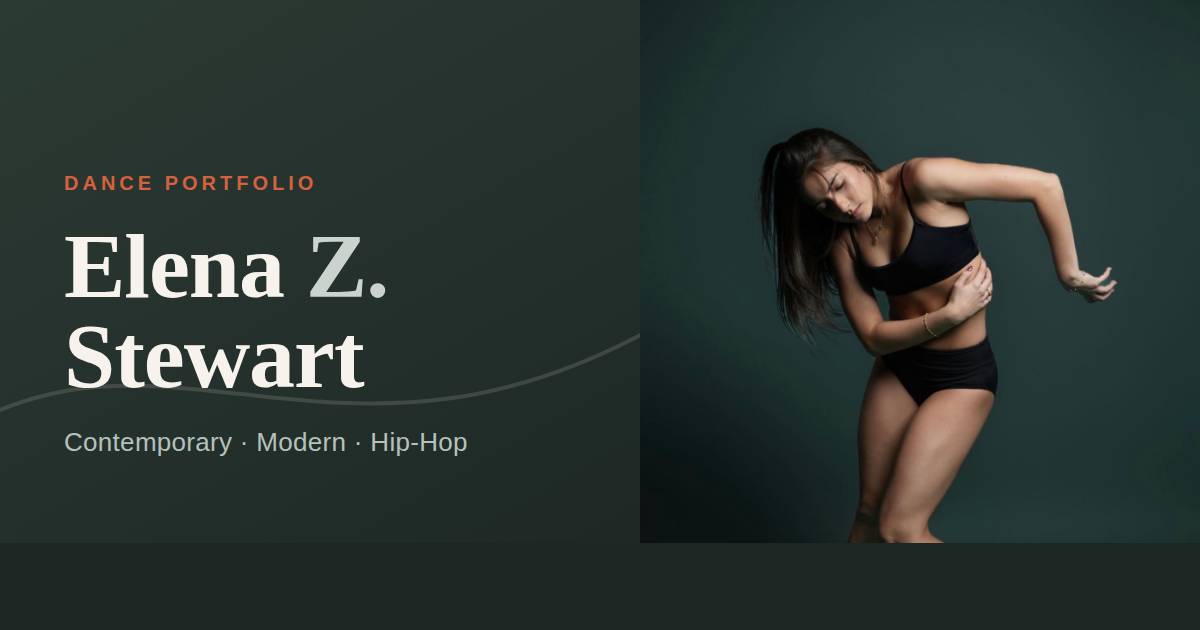
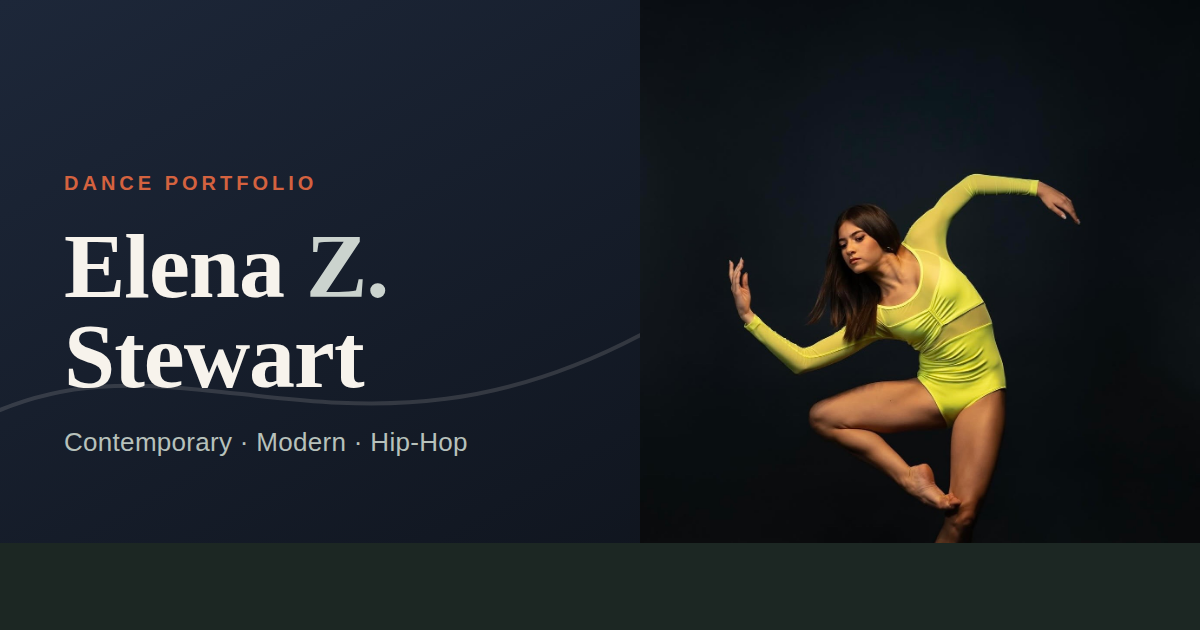
Swap hero to the neon/navy pose and build a real photo gallery
- hero: new lead image (neon on deep navy) — face clearly visible,
  dynamic line, and the dark ground gives the title crisp contrast;
  object-position tuned for the new framing
- gallery: replaced placeholders with 8 curated photos spanning her
  range (contemporary, competition stage, studio series), switched the
  layout to CSS-columns masonry so no pose gets cropped; lightbox shows
  each full frame
- og-image: regenerated share card to match the new navy hero
- removed hero/gallery placeholder SVGs

Verified in-browser: no horizontal overflow at 1440/390, lightbox opens,
masonry balances on desktop (3 col) and mobile (2 col).

Claude-Session: https://claude.ai/code/session_01631a2BMmb7Z8ksiHezA3fb

diff --git a/index.html b/index.html
@@ -72,7 +72,7 @@
 
     <!-- ============ HERO ============ -->
     <section class="hero">
-      <img class="hero-photo" src="assets/photos/hero.jpg" alt="Elena Z. Stewart in a contemporary dance pose" fetchpriority="high">
+      <img class="hero-photo" src="assets/photos/hero.jpg" alt="Elena Z. Stewart in a dynamic contemporary pose" fetchpriority="high">
       <div class="hero-scrim" aria-hidden="true"></div>
       <div class="hero-inner">
         <h1 class="hero-name">Elena&nbsp;Z.<br>Stewart</h1>
@@ -162,18 +162,17 @@
         <p class="kicker reveal">03 — Gallery</p>
         <h2 class="reveal">Stills.</h2>
       </div>
-      <!-- PLACEHOLDER: replace gallery-01…08.svg with ~8 curated photos of Elena alone
-           (mix of technique shots, stage shots, and personality). alt text below describes
-           the intended shot type for each slot. -->
+      <!-- To swap or add: drop a photo in assets/photos/ and update the src + alt below.
+           Masonry preserves each photo's full frame (no cropping). -->
       <div class="gallery-grid container-wide">
-        <button class="gallery-item reveal"><img src="assets/photos/gallery-01.svg" alt="Leap — technique shot" loading="lazy"></button>
-        <button class="gallery-item reveal"><img src="assets/photos/gallery-02.svg" alt="Stage performance" loading="lazy"></button>
-        <button class="gallery-item reveal"><img src="assets/photos/gallery-03.svg" alt="Extension — technique shot" loading="lazy"></button>
-        <button class="gallery-item reveal"><img src="assets/photos/gallery-04.svg" alt="Hip-hop freeze — studio shot" loading="lazy"></button>
-        <button class="gallery-item reveal"><img src="assets/photos/gallery-05.svg" alt="Rehearsal moment" loading="lazy"></button>
-        <button class="gallery-item reveal"><img src="assets/photos/gallery-06.svg" alt="Contemporary floorwork" loading="lazy"></button>
-        <button class="gallery-item reveal"><img src="assets/photos/gallery-07.svg" alt="Turn sequence — stage shot" loading="lazy"></button>
-        <button class="gallery-item reveal"><img src="assets/photos/gallery-08.svg" alt="Portrait in motion" loading="lazy"></button>
+        <button class="gallery-item reveal"><img src="assets/photos/gallery-01.jpg" width="1290" height="1555" alt="Standing split in a blue two-piece" loading="lazy"></button>
+        <button class="gallery-item reveal"><img src="assets/photos/gallery-02.jpg" width="1282" height="838" alt="Competition solo on stage — a needle extension" loading="lazy"></button>
+        <button class="gallery-item reveal"><img src="assets/photos/gallery-03.jpg" width="1290" height="1691" alt="Contemporary contraction on a green backdrop" loading="lazy"></button>
+        <button class="gallery-item reveal"><img src="assets/photos/gallery-04.jpg" width="1290" height="1571" alt="Extended-leg hold in neon on a navy backdrop" loading="lazy"></button>
+        <button class="gallery-item reveal"><img src="assets/photos/gallery-05.jpg" width="1290" height="837" alt="A held, face-up moment in black on stage" loading="lazy"></button>
+        <button class="gallery-item reveal"><img src="assets/photos/gallery-06.jpg" width="1290" height="1547" alt="Penché with hair in motion" loading="lazy"></button>
+        <button class="gallery-item reveal"><img src="assets/photos/gallery-07.jpg" width="1290" height="1720" alt="Inverted balance and control on a green backdrop" loading="lazy"></button>
+        <button class="gallery-item reveal"><img src="assets/photos/gallery-08.jpg" width="1290" height="1587" alt="Arabesque with a lifted arm line" loading="lazy"></button>
       </div>
     </section>
 

diff --git a/css/style.css b/css/style.css
@@ -180,8 +180,8 @@ h2 {
   width: 100%;
   height: 100%;
   object-fit: cover;
-  object-position: 50% 20%;
-  background: #2f3d38; /* matches the photo's studio green while it loads */
+  object-position: 50% 22%;
+  background: #12161f; /* matches the photo's navy studio ground while it loads */
 }
 .hero-scrim {
   position: absolute;
@@ -289,20 +289,24 @@ h2 {
 }
 
 /* ---------- Gallery ---------- */
+/* Masonry (CSS columns) — preserves each photo's full frame, no cropping */
 .gallery-grid {
-  display: grid;
-  grid-template-columns: repeat(4, 1fr);
-  gap: clamp(0.5rem, 1.2vw, 0.875rem);
+  columns: 3;
+  column-gap: clamp(0.5rem, 1.2vw, 0.875rem);
 }
-@media (max-width: 900px) { .gallery-grid { grid-template-columns: repeat(2, 1fr); } }
+@media (max-width: 900px) { .gallery-grid { columns: 2; } }
 .gallery-item {
+  display: block;
+  width: 100%;
+  margin-bottom: clamp(0.5rem, 1.2vw, 0.875rem);
   border-radius: calc(var(--radius) - 4px);
   overflow: hidden;
-  aspect-ratio: 3 / 4;
+  break-inside: avoid;
 }
 .gallery-item img {
-  width: 100%; height: 100%;
-  object-fit: cover;
+  width: 100%;
+  height: auto;
+  display: block;
   transition: transform 0.45s ease;
 }
 .gallery-item:hover img { transform: scale(1.04); }
